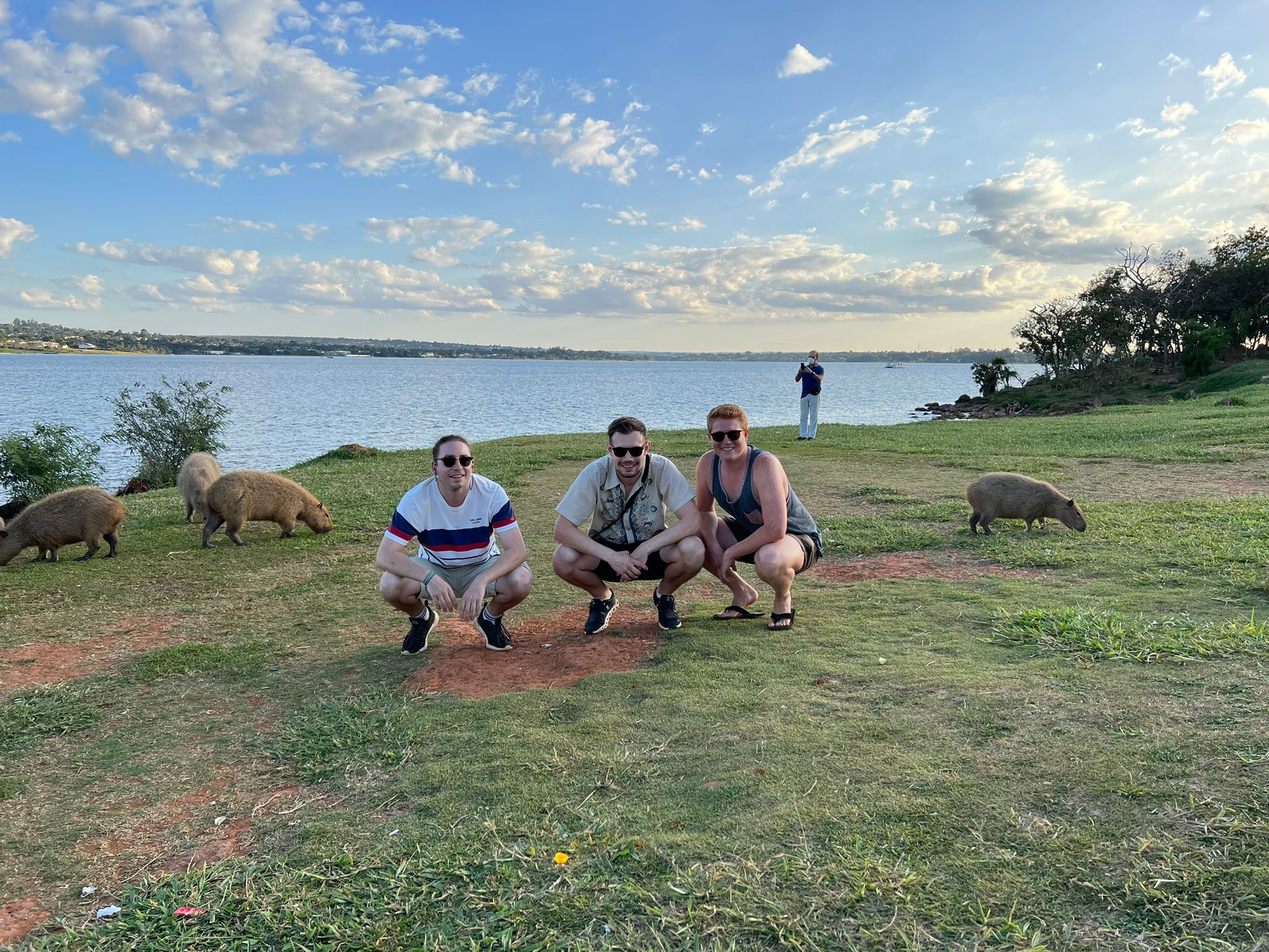
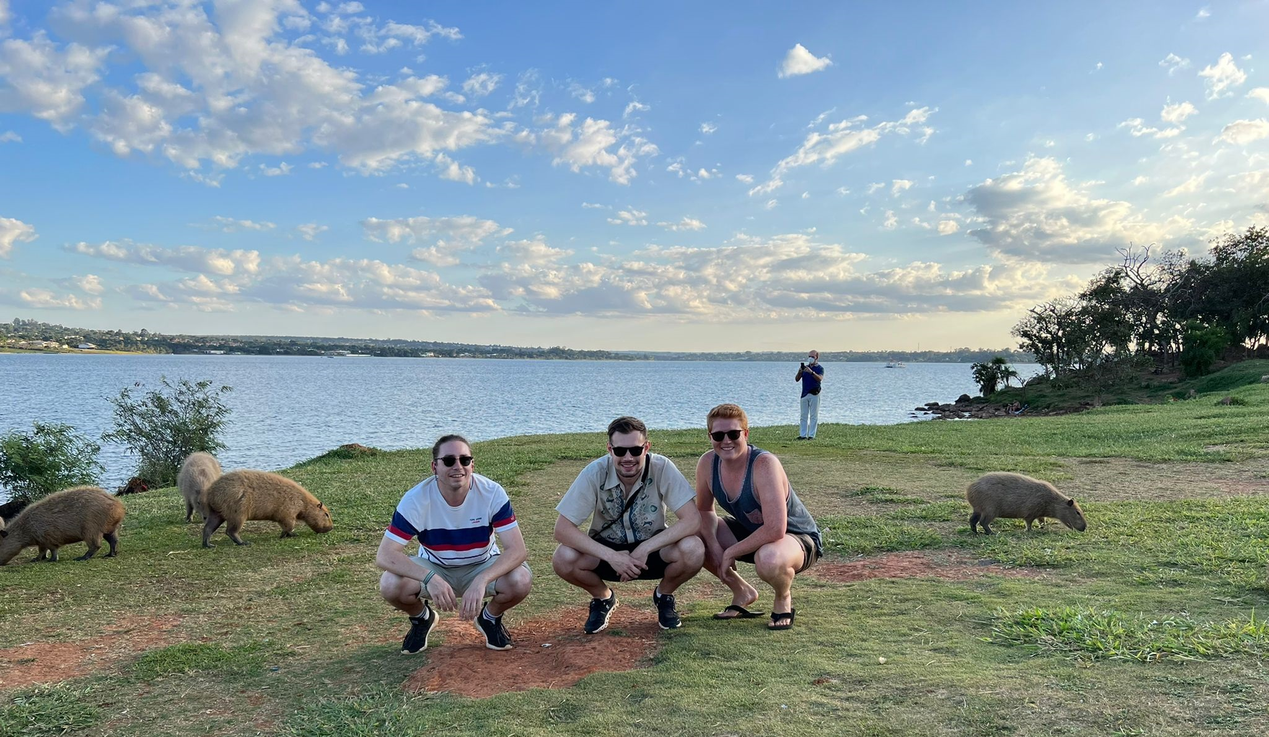
about us fertig

diff --git a/Website/pages/About Us/aboutus.html b/Website/pages/About Us/aboutus.html
@@ -172,21 +172,21 @@
     <figure>
       
 
-        <img width="650" src="/Website/pages/About Us/Gruppenbild_1.JPG"
+        <img width="100%" src="/Website/pages/About Us/Gruppenbild_1.JPG"
         alt="Picture 2">
-        <img width="650" src="/Website/pages/About Us/Gruppenbild_2.JPG"
+        <img width="100%" src="/Website/pages/About Us/Gruppenbild_2.JPG"
         alt="Picture 2">
-        <img width="650" src="/Website/pages/About Us/Gruppenbild_3.JPG"
+        <img width="100%" src="/Website/pages/About Us/Gruppenbild_3.JPG"
         alt="Picture 2">
-        <img width="650" src="/Website/pages/About Us/leisure_lake.JPG"
+        <img width="100%" src="/Website/pages/About Us/leisure_lake.JPG"
         
         alt="Picture 2">
-        <img width="650" src="/Website/pages/About Us/cathedral.JPG"
+        <img width="48%" src="/Website/pages/About Us/cathedral.JPG"
         alt="Picture 1">
 
-      <img width="650" src="/Website/pages/About Us/fieldwork.JPG"
+      <img width="48%" src="/Website/pages/About Us/fieldwork.JPG"
         alt="Picture 2">
-        <img width="1344" src="/Website/pages/About Us/overview.JPG"
+        <img width="100%" src="/Website/pages/About Us/overview.JPG"
         alt="Picture 2">
       </figure>
 

diff --git a/Website/pages/About Brasilia/aboutbrasilia.html b/Website/pages/About Brasilia/aboutbrasilia.html
@@ -126,7 +126,7 @@
 
     <figure>
 
-      <img width="960" src="/Website/pages/About Us/overview.JPG"
+      <img width="100%" src="/Website/pages/About Us/overview.JPG"
       alt="Picture 2">
       <p class="quelle">Source: own picture</p>
     </figure><br>
@@ -217,11 +217,11 @@
 
 
 
-      <img width="670" src="/Website/pages/About Brasilia/IMG_6200.JPG"
+      <img width="100%" src="/Website/pages/About Brasilia/IMG_6200.JPG"
       alt="Picture 2">
       <p class="quelle">Source: own picture</p><br> 
 
-<img width="670" src="/Website/pages/About Brasilia/IMG_6237.JPG"
+<img width="100%" src="/Website/pages/About Brasilia/IMG_6237.JPG"
 alt="Picture 2">
 <p class="quelle">Source: own picture</p>
 
@@ -267,7 +267,7 @@ alt="Picture 2">
       (Passauer Kontaktstudium Geographie, 14), p. 23–33.
 
     </p10>
-
+<br><br>
   </main>
 
 
